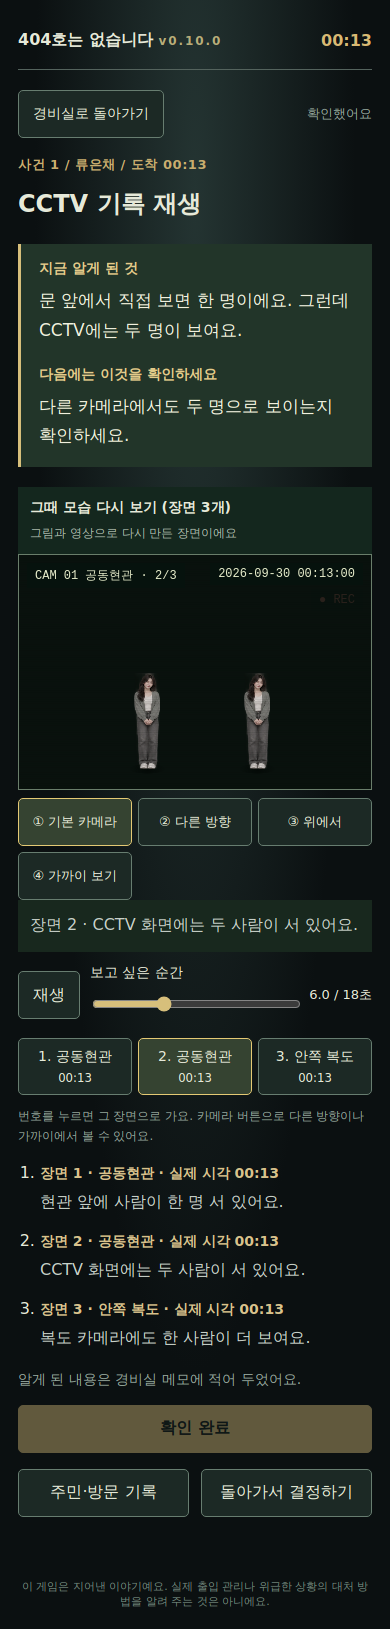
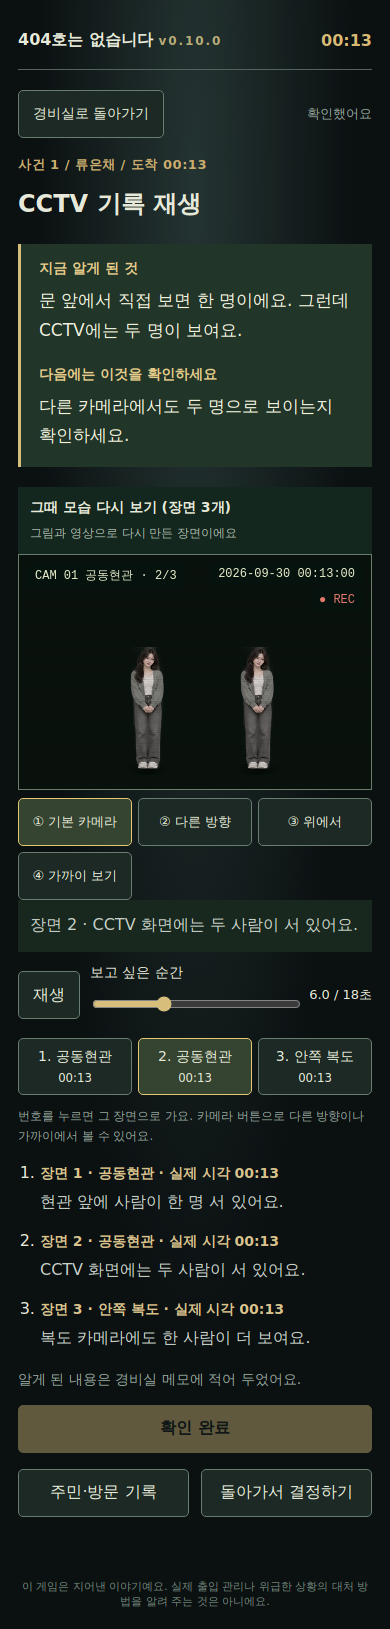
v0.10.1: calibrate figure sizes to the backgrounds
- LAYOUT re-measured per place against doors/cars so a standing adult is
  about 80% of a door at the same depth; near standing spots moved back
  where the camera is overhead
- CCTV no longer uses the walk/anomaly clips with a baked-in small figure;
  everyone is drawn on the canvas over the ambient videos
- close-up zoom 2.2x -> 1.8x; tests updated for the new sizes

Claude-Session: https://claude.ai/code/session_01FGAUvVNs8BW1MSHvwbK7z4

Changed region(s): [[0.6154, 0.399, 0.7077, 0.4911], [0.3385, 0.399, 0.4308, 0.4911]]

diff --git a/404호는 없습니다/room404/dist/replay.js b/404호는 없습니다/room404/dist/replay.js
@@ -15,14 +15,15 @@ export const VIEW_NAMES={hallSide:'복도 반대편',elevatorLobby:'엘리베이
 const OPPOSITE=new Set(['hallSide','parkingSide','elevatorLobby','doorFar']);
 export function viewFor(location,camera){return camera==='side'?SIDE_VIEW[location]||location:camera==='top'?TOP_VIEW[location]||location:location}
 const AMBIENT={lobby:'03-lobby-monitor',lobbySide:'04-lobby-side-monitor',hall:'05-hall-monitor',elevator:'06-elevator-monitor',stairs:'07-stairs-monitor',parking:'08-parking-monitor'};
-// Anomaly clips already contain one specific visitor look, so they are used only when place, mode and look all match.
-const ANOMALY_CLIPS=[['17-delayed-shadow','hall','shadowHold',1],['18-duplicate-visitors','lobby','double',2],['19-reflection-lag','elevator','reflection',3],['21-infrared-view','parking','ir',4],['22-rain-double-image','lobby','rainDouble',1]];
+// The walk and anomaly clips (13-22) carry a baked-in figure at a fixed size, so CCTV draws every person on the canvas
+// instead; those clips are shown only as examples on the home screen.
 // Floor line and frame height per place, matched to the v2 backgrounds (canvas 960x640).
 // Perspective per place (canvas 960x640). y/h: foot line and figure height at the reference (near) spot.
 // horizon: the line where a figure's height would shrink to zero; far/farX: where someone appears at the back of the shot.
 // A figure's height always follows its foot line, so anyone walking toward the camera grows the way a real CCTV image does.
-const LAYOUT={lobby:{y:585,h:285,horizon:-20,far:330,farX:240},lobbySide:{y:585,h:285,horizon:-20,far:350,farX:300},hall:{y:587,h:290,horizon:250,far:430,farX:470},elevator:{y:568,h:340,horizon:-150,far:450,farX:500},stairs:{y:590,h:290,horizon:-40,far:380,farX:620},parking:{y:570,h:260,horizon:230,far:390,farX:330},door:{y:600,h:300,horizon:-300,far:560,farX:480},
- hallSide:{y:587,h:290,horizon:250,far:430,farX:480},elevatorLobby:{y:590,h:300,horizon:-100,far:470,farX:480},stairsUp:{y:600,h:300,horizon:-60,far:330,farX:640},parkingSide:{y:580,h:270,horizon:200,far:400,farX:480},doorFar:{y:440,h:190,horizon:-120,far:440,farX:470},lobbyTop:{y:600,h:280,horizon:-300,far:300,farX:200}};
+// Calibrated against the doors and cars in each photo: a standing adult is about 80% of a door (2.1 m) at the same depth.
+const LAYOUT={lobby:{y:585,h:363,horizon:-20,far:330,farX:240},lobbySide:{y:585,h:363,horizon:-20,far:350,farX:300},hall:{y:500,h:357,horizon:250,far:300,farX:470},elevator:{y:520,h:430,horizon:108,far:310,farX:500},stairs:{y:590,h:362,horizon:-40,far:345,farX:620},parking:{y:570,h:325,horizon:230,far:390,farX:330},door:{y:620,h:450,horizon:-300,far:560,farX:480},
+ hallSide:{y:520,h:316,horizon:250,far:300,farX:480},elevatorLobby:{y:590,h:353,horizon:-100,far:400,farX:480},stairsUp:{y:600,h:362,horizon:100,far:300,farX:640},parkingSide:{y:580,h:300,horizon:250,far:400,farX:480},doorFar:{y:410,h:232,horizon:-120,far:410,farX:470},lobbyTop:{y:600,h:315,horizon:-300,far:300,farX:200}};
 export function heightAt(location,footY){const b=LAYOUT[location]||LAYOUT.lobby;return b.h*(footY-b.horizon)/(b.y-b.horizon)}
 // Uniform motion toward or away from the camera is not linear on screen: the foot line follows 1/depth.
 export function perspectiveY(horizon,y0,y1,phase){const a=y0-horizon,b=y1-horizon;return horizon+a*b/(b-phase*(b-a))}
@@ -43,7 +44,6 @@ function reduceMotion(){return typeof matchMedia==='function'&&matchMedia('(pref
 export const GESTURE={wave:[0,1],knock:[2,3],phone:[4,5],look:6,stand:7};
 export function actorPlacement(s,phase,look=1){
  const base=LAYOUT[s.location]||LAYOUT.lobby;let x=480,y=base.y,walking=false,facing=1,sheet='gest',cell=GESTURE.stand;
- if(videoWalk(s,look))return {x:-90+phase*1140,y:582,h:285,walking:true,video:true,facing:1,sheet:'side',cell:-1};
  // A straight walk on the floor: the foot line follows perspective, x follows the foot line so the path stays straight on screen.
  const path=(x0,y0,x1,y1,q=phase)=>{y=perspectiveY(base.horizon,y0,y1,q);x=x0+(x1-x0)*(y-y0)/(y1-y0);walking=true};
  const opposite=OPPOSITE.has(s.location);
@@ -57,7 +57,6 @@ export function actorPlacement(s,phase,look=1){
  const h=heightAt(s.location,y)*(s.mode==='distort'?1.15:1);
  return {x,y,h,walking,facing,sheet,cell};
 }
-function videoWalk(s,look){return s.location==='lobby'&&['enter','cross'].includes(s.action)&&s.mode==='normal'&&(!s.prop||s.prop==='none')&&look>=1&&look<=4}
 export function sceneVideo(s,look,camera='main'){
  if(camera==='side'){const v=SIDE_VIEW[s.location];return v&&AMBIENT[v]||null}
  if(camera==='top')return null;
@@ -65,7 +64,6 @@ export function sceneVideo(s,look,camera='main'){
  if(s.mode==='doorCompare')return '09-door-comparison';
  if(s.mode==='doorOpen')return '23-door-open-ambient';
  if(s.location==='door')return null;
- if(camera==='main'){const clip=ANOMALY_CLIPS.find(([,loc,mode,l])=>loc===s.location&&mode===s.mode&&l===look);if(clip)return clip[0];if(videoWalk(s,look))return `${12+look}-visitor-0${look}-walk`}
  return AMBIENT[s.location]||null;
 }
 export async function mountReplay(host,{pack,visitor,time,date,scenes=pack.scenes}){
@@ -112,14 +110,14 @@ export async function mountReplay(host,{pack,visitor,time,date,scenes=pack.scene
  video.addEventListener('loadeddata',()=>{videoOk=true;draw()});
  video.addEventListener('error',()=>{if(videoSrc){failed.add(videoSrc);videoSrc=null;videoOk=false;video.hidden=true;draw()}});
  function cameraTransform(s,pos){
-  if(camera==='close'){const cx=pos.x/960*100,cy=Math.max(5,(pos.y-pos.h*.62)/640*100);stage.style.transformOrigin=`${cx}% ${cy}%`;stage.style.transform='scale(2.2)'}
+  if(camera==='close'){const cx=pos.x/960*100,cy=Math.max(5,(pos.y-pos.h*.62)/640*100);stage.style.transformOrigin=`${cx}% ${cy}%`;stage.style.transform='scale(1.8)'}
   else{stage.style.transform='';stage.style.transformOrigin=''}
  }
  function draw(){if(disposed||!images)return;const index=Math.min(scenes.length-1,Math.floor(cursor/6)),s=scenes[index],local=cursor-index*6,phase=local/6,mode=s.mode;
   const place=viewFor(s.location,camera);host.querySelector('[data-camera=top]').hidden=!TOP_VIEW[s.location];
   const view={...s,location:place},pos=actorPlacement(view,phase,look);
   setVideo(sceneVideo(s,look,camera),local);
-  const clipHasActor=videoOk&&videoSrc&&(/visitor-0\d-walk|delayed|duplicate|reflection-lag|infrared|rain-double/.test(videoSrc));
+  const clipHasActor=false;
   ctx.clearRect(0,0,960,640);
   if(!(videoOk&&videoSrc)){
    const key=place==='door'?(mode==='doorOpen'||(mode==='doorCompare'&&phase>.4&&phase<.8)?'doorOpen':'door'):place;

diff --git a/404호는 없습니다/docs/CODE_GUIDE.md b/404호는 없습니다/docs/CODE_GUIDE.md
@@ -2,7 +2,7 @@
 
 코드 구조를 섹션별로 정리합니다. **코드를 바꾸면 해당 섹션도 함께 고칩니다.**
 
-- 기준 버전: v0.10.0 (2026-09-30)
+- 기준 버전: v0.10.1 (2026-09-30)
 - 코드 위치: `room404/`
 - 빌드 과정 없이 `room404/dist/` 폴더를 그대로 웹 서버에 올리면 실행됩니다.
 
@@ -113,10 +113,9 @@ home ──시작──▶ game ◀──돌아가기── investigation
 
 - 사건마다 장면 3개, 장면당 6초로 총 18초입니다.
 - **두 층**으로 되어 있습니다. 아래는 장소별 영상(`<video class="replay-video">`), 위는 투명한 canvas입니다. 영상이 없거나 열리지 않으면 canvas가 배경 사진을 직접 그립니다. 글자(카메라 이름, 시각, 상태)는 그 위의 HTML(`.replay-hud`)입니다.
-- `sceneVideo(scene, look, camera)`가 장면에 맞는 영상을 고릅니다. 순서: 신호 끊김(loading) → 문 비교/열린 문 → (기본 카메라일 때) 인물·장소·이상 종류가 모두 맞는 이상 영상 → 공동현관 걷기 영상(소품 없음, normal) → 장소별 모니터 영상.
-- 사람이 들어 있는 영상(걷기, 이상 영상)을 쓸 때는 canvas에 사람을 그리지 않습니다.
+- `sceneVideo(scene, look, camera)`가 장면에 맞는 배경 영상을 고릅니다. 순서: 다른 방향 카메라면 그 장소의 모니터 영상 → 위에서 카메라면 없음 → 신호 끊김(loading) → 문 비교/열린 문 → 장소별 모니터 영상. 인물이 들어 있는 영상(걷기 13~16, 이상 17~22)은 크기가 고정되어 CCTV에서 쓰지 않고, 처음 안내의 예시로만 씁니다(v0.10.1).
 - 영상 시간은 `setVideo()`가 재생 위치(장면 안에서 0~6초)에 맞춥니다. 재생 중에는 0.3초 이상 어긋날 때만 맞춥니다.
-- **원근법**: `LAYOUT[장소]`에 기준 발 위치 `y`와 그때의 키 `h`, 지평선 `horizon`, 뒤쪽 출발점 `far`/`farX`가 있습니다. `heightAt(장소, 발 y)`가 발 위치로 키를 정합니다. 걸어오는 경로는 `perspectiveY()`로 1/거리 원근을 따르고, x는 발 위치에 비례해 화면에서 직선이 됩니다.
+- **원근법**: `LAYOUT[장소]`에 기준 발 위치 `y`와 그때의 키 `h`, 지평선 `horizon`, 뒤쪽 출발점 `far`/`farX`가 있습니다. 값은 사진 속 문(2.1m)·차를 재서 **같은 깊이에서 사람이 문의 약 80%** 가 되게 맞춘 것입니다(v0.10.1). 배경을 바꾸면 이 기준으로 다시 잽니다. `heightAt(장소, 발 y)`가 발 위치로 키를 정합니다. 걸어오는 경로는 `perspectiveY()`로 1/거리 원근을 따르고, x는 발 위치에 비례해 화면에서 직선이 됩니다.
 - `actorPlacement()`: 위 원근법으로 동작(enter/cross/descend/turn/repeat)별 위치·키·방향(`facing`)을 냅니다. 가까이 보기 카메라의 확대 중심으로도 씁니다. 배경 사진을 바꾸면 `LAYOUT`의 값을 그 사진에 맞게 다시 잽니다.
 - 걸음 프레임: `cross`는 이동 거리(보폭 = 키의 0.8배 = 8프레임)로 정해 발이 미끄러지지 않고, 깊이 방향 걷기는 `walkFrame(cursor)`(8fps)입니다.
 - `contactShadow()`: 발밑 그림자. 서 있는 인물은 `breath`로 3초 주기 미세한 숨쉬기.
@@ -207,7 +206,7 @@ npm run test:all-cases   # 사건 100개 × 장면 3개 전수 검사
 - 브라우저 검사는 `speechSynthesis`를 가짜로 바꿔 끼워 통화 음성을 검사합니다(읽은 줄 수, ko-KR, 사람마다 다른 높이, 소리 끄기).
 - 테스트용 서버는 `tests/static-server.mjs`입니다. 영상 탐색에 필요한 Range 요청을 지원합니다.
 - 이 환경의 브라우저는 GPU가 없어 스크린샷에 영상이 검게 나옵니다. 영상 확인은 `data-video`와 `currentTime`으로 합니다.
-- 마지막 결과(2026-09-30, v0.10.0): 14/14, 9/9, 100/100 모두 통과
+- 마지막 결과(2026-09-30, v0.10.1): 14/14, 9/9, 100/100 모두 통과
 
 ## 10. 주의사항
 

diff --git a/404호는 없습니다/room404/CHANGELOG-0.10.1.md b/404호는 없습니다/room404/CHANGELOG-0.10.1.md
@@ -1,0 +1,10 @@
+# 0.10.1 — 인물 크기를 배경에 맞춤
+
+2026-09-30
+
+- 캡처를 보면 인물이 배경의 문·차에 비해 절반 정도로 작았다. 장소마다 사진 속 기준 물체(문 2.1m, 차)를 재서 **같은 깊이에서 사람이 문의 약 80%** 가 되도록 `LAYOUT`의 키와 지평선을 다시 정했다.
+  - 예: 공동현관 매트 앞 인물 165px → 210px, 현관문 앞 인물 300px → 450px, 복도 근처 인물 181px → 300px.
+  - 복도·엘리베이터처럼 카메라 바로 아래가 지나치게 커지는 곳은 서 있는 자리를 조금 뒤(y 587→500 등)로 옮겼다.
+- **걷기 영상(13~16)과 이상 장면 영상(17~22)은 CCTV에서 빼고** 모든 인물을 캔버스로 그린다. 영상 속 인물은 크기가 고정되어(작게) 새 기준과 맞지 않기 때문이다. 이 영상들은 처음 안내의 예시로만 쓴다. 장소별 모니터 영상(03~08)과 문 영상은 그대로 배경으로 쓴다.
+- 가까이 보기 배율을 2.2배에서 1.8배로 낮췄다(인물이 커졌으므로).
+- 검사: 엔진·데이터 14/14, 브라우저 9/9, 전수 100/100 통과.

diff --git a/404호는 없습니다/docs/WORKLOG.md b/404호는 없습니다/docs/WORKLOG.md
@@ -81,3 +81,8 @@
 - 들어오는 장면은 앞모습 걷기, 반대편 카메라에서는 뒷모습 걷기를 씁니다. 손 흔들기·문 두드리기·전화·뒤돌아보기가 실제 동작 그림으로 바뀌었습니다.
 - 검사: 엔진·데이터 14/14, 브라우저 9/9, 전수 100/100 통과. 자세한 내용은 `room404/CHANGELOG-0.10.0.md`.
 - 남은 것: 묶음 C·D·E 그림(새 방문객, 사물, 화면용) 수신 후 적용.
+
+### v0.10.1 — 인물 크기 보정
+- 사용자 지적: 배경에 비해 인물이 너무 작음. 장소마다 문·차 높이를 재서 같은 깊이에서 사람이 문의 약 80%가 되게 `LAYOUT`을 다시 정했습니다.
+- 인물이 작게 고정된 걷기·이상 영상은 CCTV에서 빼고 캔버스 인물로 통일했습니다(예시 영상으로는 유지).
+- 검사: 14/14, 9/9, 100/100 통과.

diff --git a/404호는 없습니다/README.md b/404호는 없습니다/README.md
@@ -7,7 +7,7 @@
 | 항목 | 상태 |
 |---|---|
 | 운영 사이트 | v0.5.0 (ChatGPT Sites, 소유자 전용) |
-| 최신 작업본 | v0.10.0 — `room404/` (운영 미배포). 쉬운 대사, 전화 목소리, 넘기는 기록부, 이미지 v2·v3, 장소별 2대 카메라, 원근법·연출·효과음 |
+| 최신 작업본 | v0.10.1 — `room404/` (운영 미배포). 쉬운 대사, 전화 목소리, 넘기는 기록부, 이미지 v2·v3, 장소별 2대 카메라, 원근법·연출·효과음 |
 | iOS 앱 | Capacitor 8.5.2 Xcode 프로젝트 초안 (v0.2 기준, 최신 코드와 동기화 필요) |
 | Android 앱 | 아직 없음 |
 | 스토어 등록 | 아직 안 함. Google Play 먼저 진행 (앱 ID `com.musi0905.room404`, 3,300원) |
